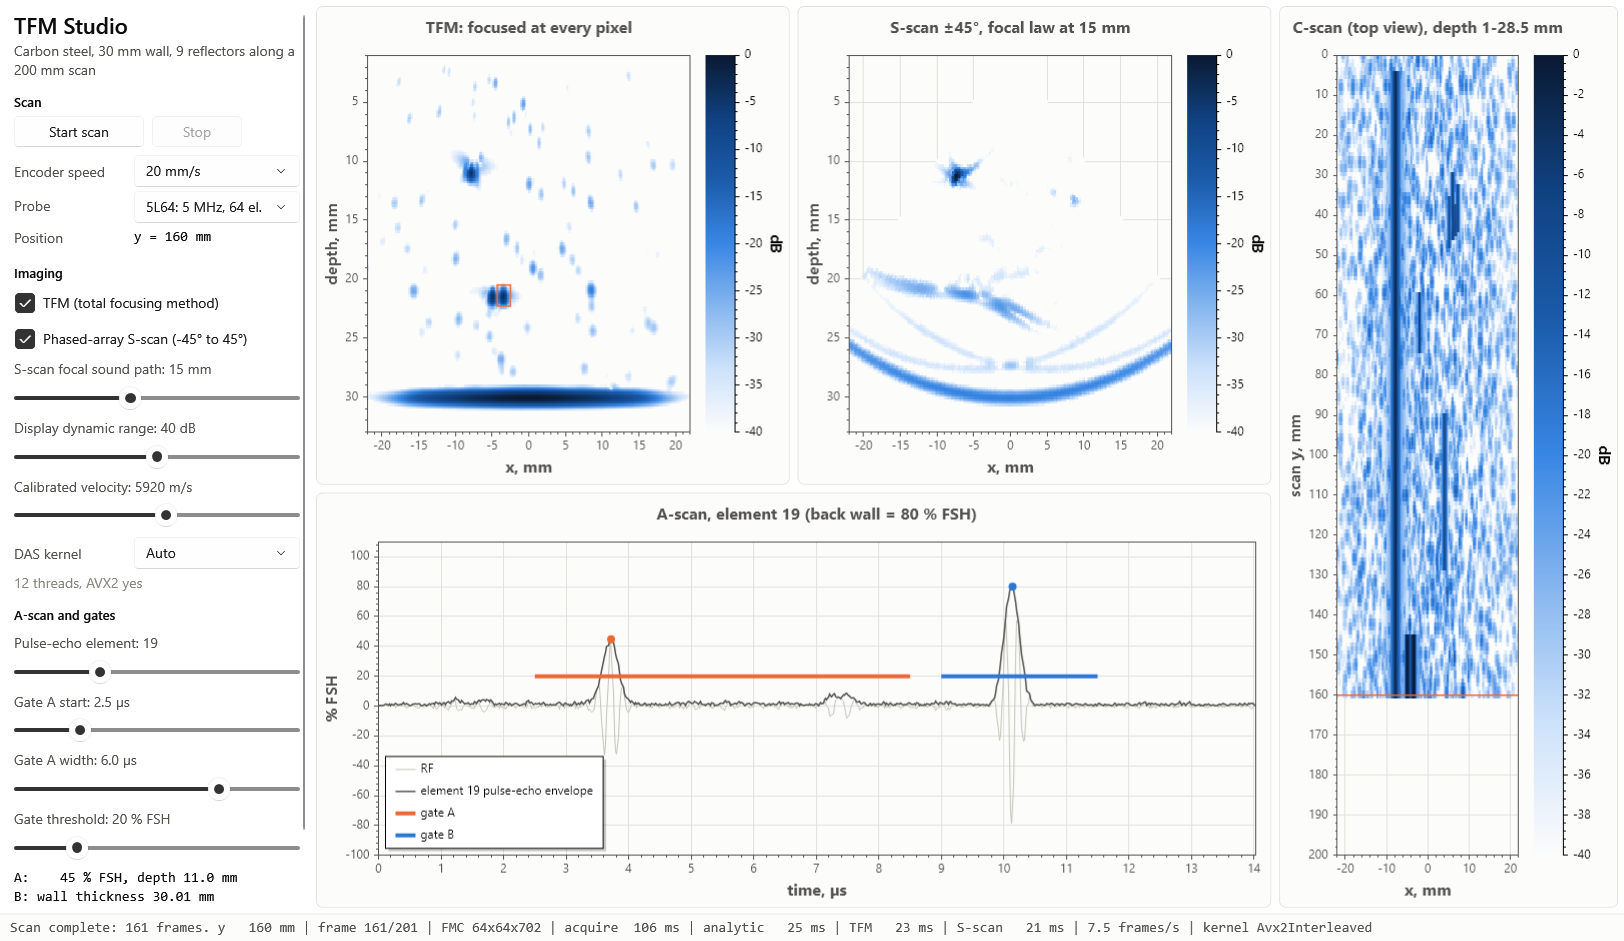
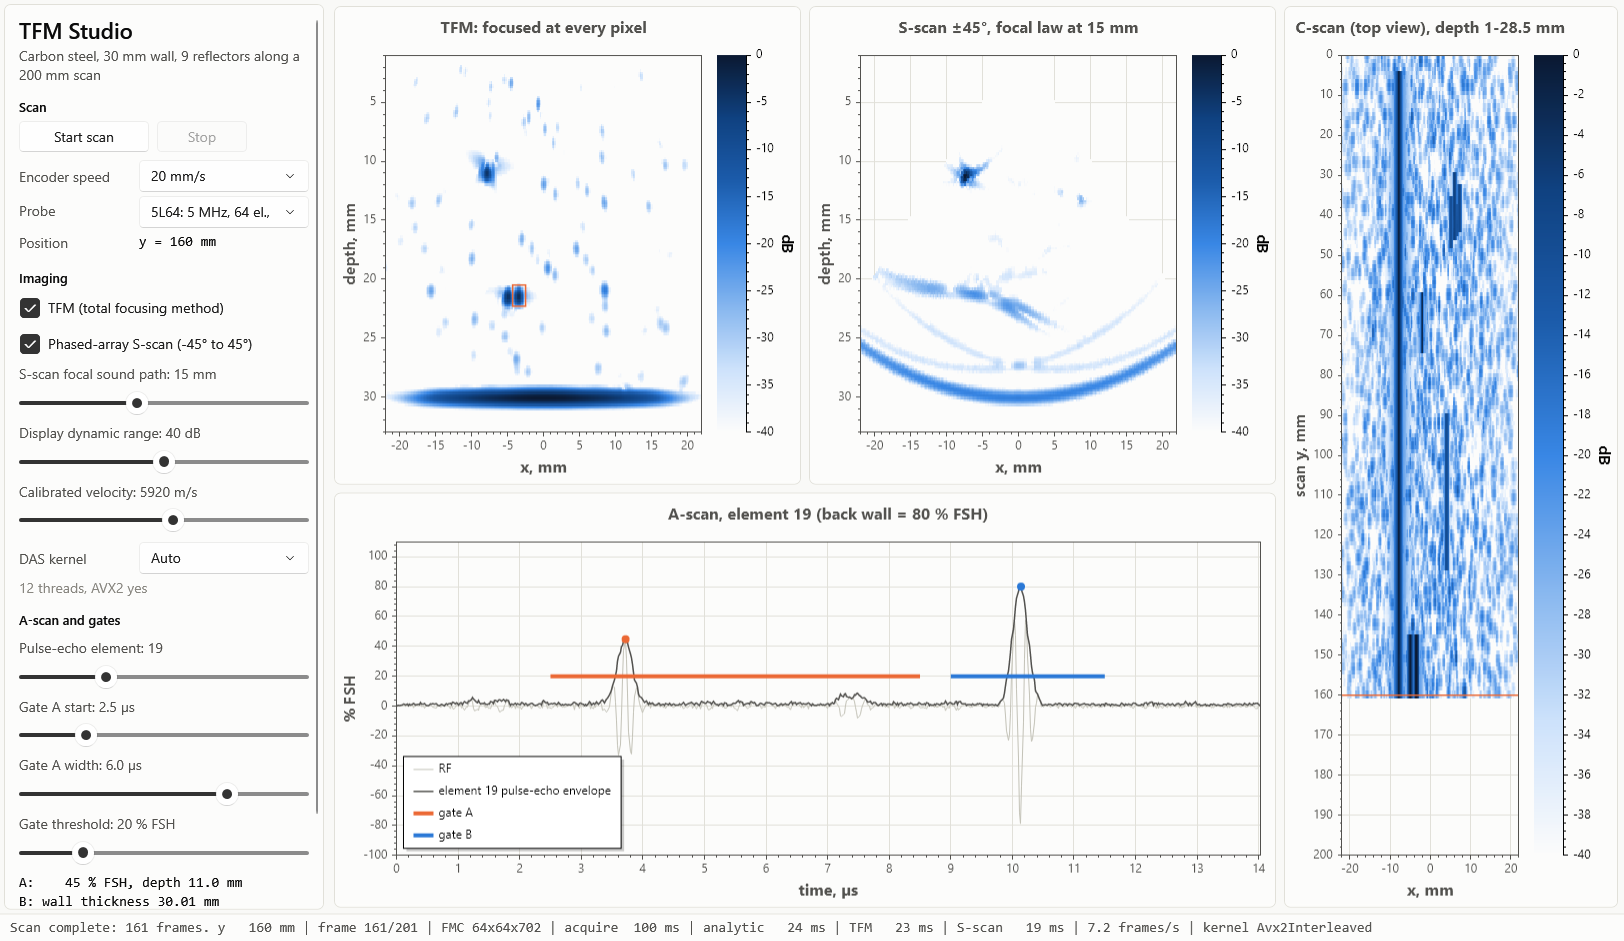
Fix transparent screenshot background; left panel as a card
The window root had no background, so the README screenshot was saved
with transparent pixels that render black in dark-mode viewers (GitHub
dark theme). The root and the settings panel now have opaque surfaces,
and the screenshot is composed on the page colour.

diff --git a/src/TfmStudio.App/MainWindow.xaml b/src/TfmStudio.App/MainWindow.xaml
@@ -9,13 +9,14 @@
         d:DataContext="{d:DesignInstance Type=vm:MainViewModel}"
         Title="TFM Studio: phased-array UT / TFM workstation"
         Width="1640" Height="980" Background="{StaticResource PageBrush}">
-    <DockPanel>
+    <DockPanel Background="{StaticResource PageBrush}">
         <Border DockPanel.Dock="Bottom" Background="{StaticResource SurfaceBrush}" BorderBrush="{StaticResource HairlineBrush}" BorderThickness="0,1,0,0" Padding="10,5">
             <TextBlock Text="{Binding Status}" FontFamily="Consolas" Foreground="{StaticResource Ink2Brush}" TextTrimming="CharacterEllipsis" />
         </Border>
 
-        <ScrollViewer DockPanel.Dock="Left" Width="310" VerticalScrollBarVisibility="Auto">
-            <StackPanel Margin="14,10,10,10">
+        <Border DockPanel.Dock="Left" Width="320" Style="{StaticResource Card}" Padding="0">
+        <ScrollViewer VerticalScrollBarVisibility="Auto">
+            <StackPanel Margin="14,10,14,14">
                 <TextBlock Text="TFM Studio" FontSize="22" FontWeight="SemiBold" Foreground="{StaticResource InkBrush}" />
                 <TextBlock Text="{Binding SpecimenDescription}" TextWrapping="Wrap" Foreground="{StaticResource Ink2Brush}" Margin="0,2,0,0" />
 
@@ -85,6 +86,7 @@
                 <TextBlock Text="{Binding IndicationReadout}" Style="{StaticResource Readout}" />
             </StackPanel>
         </ScrollViewer>
+        </Border>
 
         <Grid Margin="2">
             <Grid.ColumnDefinitions>

diff --git a/src/TfmStudio.App/App.xaml.cs b/src/TfmStudio.App/App.xaml.cs
@@ -43,8 +43,16 @@ public partial class App : Application
     {
         var root = (FrameworkElement)window.Content;
         root.UpdateLayout();
-        var bitmap = new RenderTargetBitmap((int)root.ActualWidth, (int)root.ActualHeight, 96, 96, PixelFormats.Pbgra32);
-        bitmap.Render(root);
+        int w = (int)root.ActualWidth, h = (int)root.ActualHeight;
+        // Compose on an opaque page colour: transparent pixels turn black in dark-mode viewers (GitHub dark theme).
+        var visual = new DrawingVisual();
+        using (var dc = visual.RenderOpen())
+        {
+            dc.DrawRectangle((Brush)window.FindResource("PageBrush"), null, new Rect(0, 0, w, h));
+            dc.DrawRectangle(new VisualBrush(root), null, new Rect(0, 0, w, h));
+        }
+        var bitmap = new RenderTargetBitmap(w, h, 96, 96, PixelFormats.Pbgra32);
+        bitmap.Render(visual);
         var encoder = new PngBitmapEncoder();
         encoder.Frames.Add(BitmapFrame.Create(bitmap));
         Directory.CreateDirectory(Path.GetDirectoryName(Path.GetFullPath(path))!);
